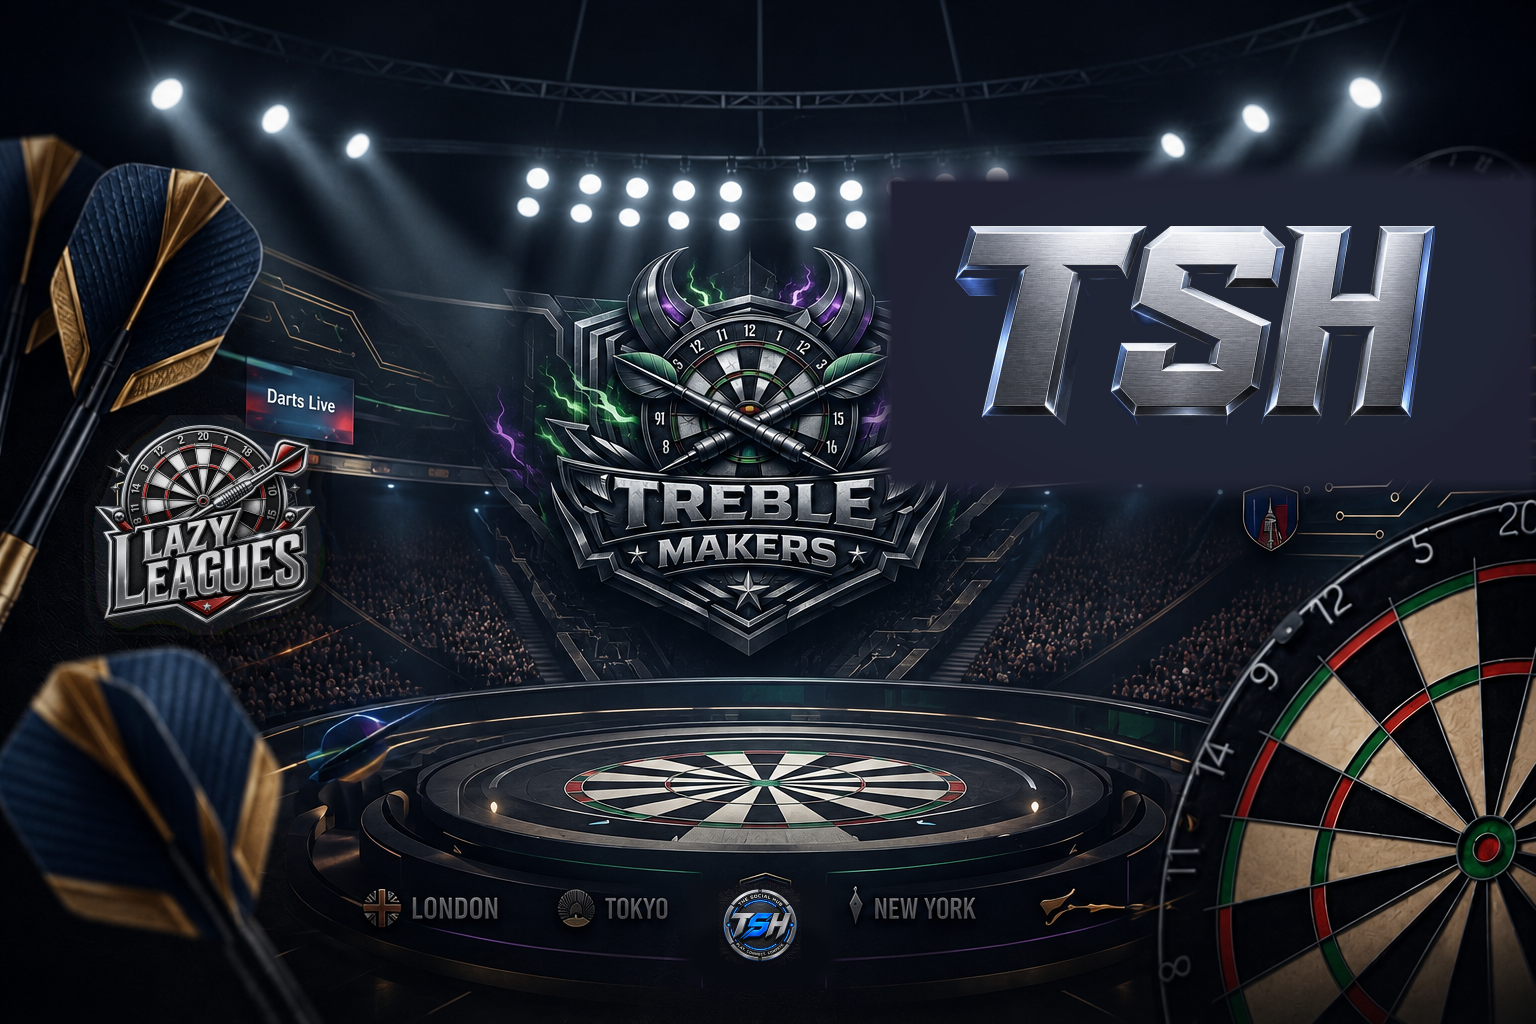
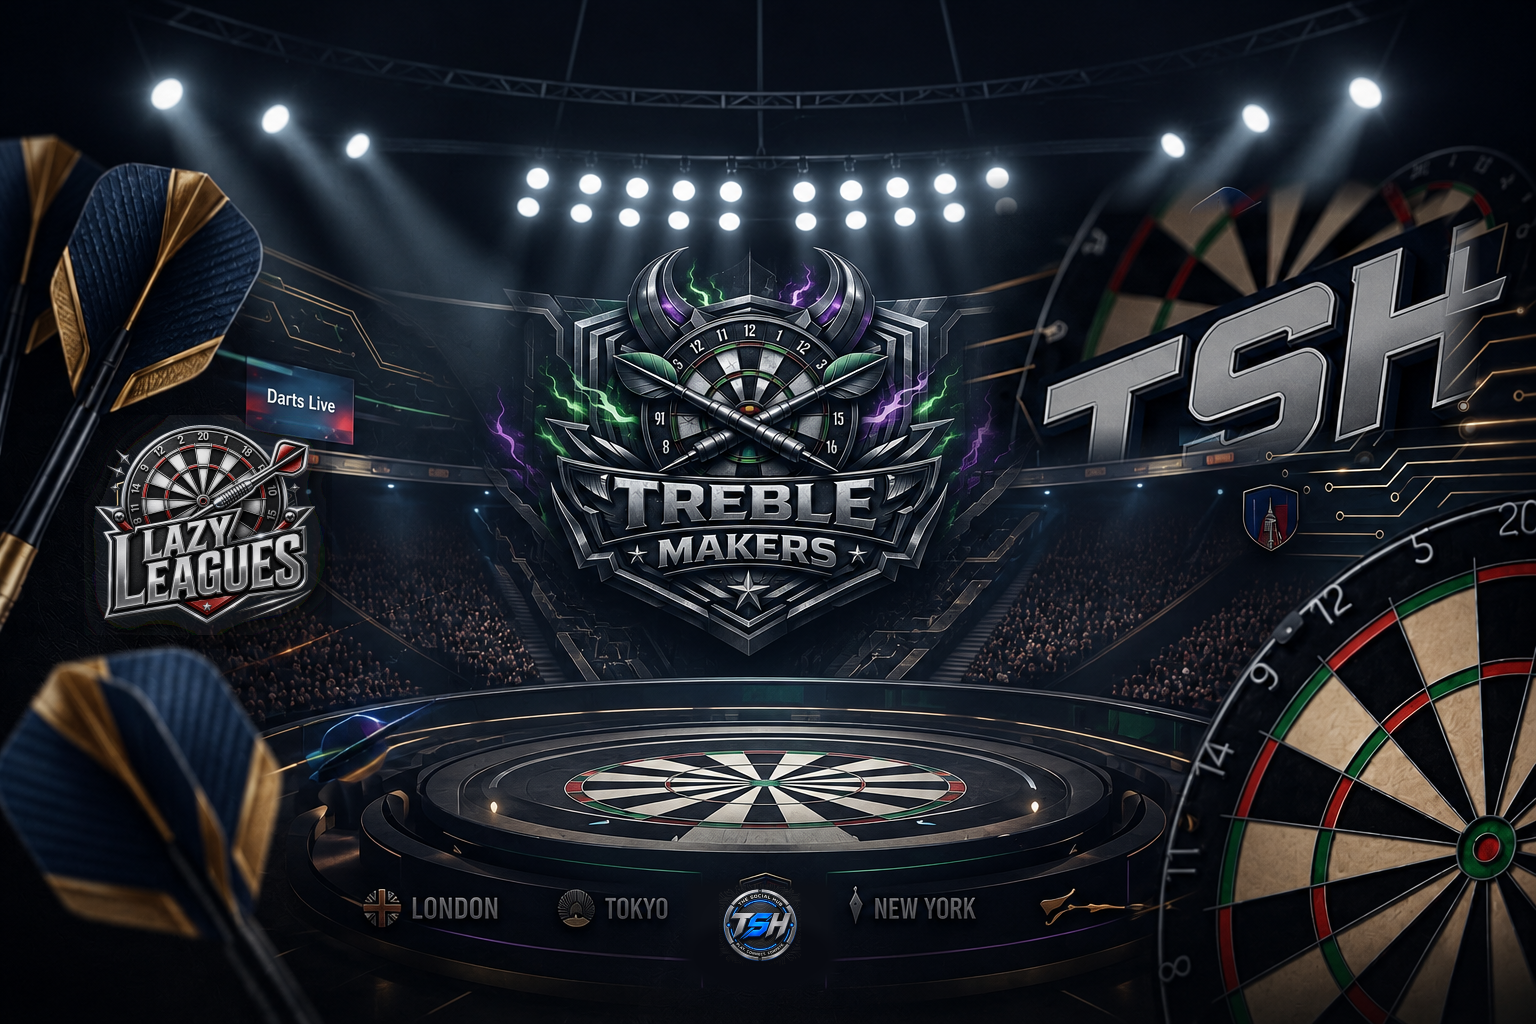
Integrate TSH wall letters into arena background like WDL (#54)
Replace the flat TSH letter overlay with a scene-matched slanted metallic
wall sign soft-blended into the original arena art so circuits, dartboard,
and lighting sit around the glyphs the way the old WDL lettering did.

Changed region(s): [[0.5625, 0.1562, 1.0, 0.5]]

diff --git a/scripts/patch-background-tsh.js b/scripts/patch-background-tsh.js
@@ -4,6 +4,10 @@
  * Replace the integrated WDL wall lettering and the small bottom-bar WDL crest
  * in treble_arena_background.png with TSH branding.
  *
+ * Prefers a scene-matched "integrated" TSH letter render (same slant, metal,
+ * circuit connections, dartboard behind) soft-blended into the original
+ * arena background so the letters feel mounted in the scene like WDL.
+ *
  * Usage:  node scripts/patch-background-tsh.js
  */
 const path = require('path');
@@ -13,14 +17,21 @@ const Jimp = require('jimp');
 const ROOT = path.resolve(__dirname, '..');
 const BG = path.join(ROOT, 'treble_arena_background.png');
 const BG_BACKUP = path.join(ROOT, 'treble_arena_background_wdl_backup.png');
-const LETTERS = path.join(ROOT, 'tsh-images/_originals/TSH_wall_letters.png');
+const LETTERS_INTEGRATED = path.join(ROOT, 'tsh-images/_originals/TSH_wall_letters_integrated.png');
+const LETTERS_FALLBACK = path.join(ROOT, 'tsh-images/_originals/TSH_wall_letters.png');
 const CREST = path.join(ROOT, 'tsh-images/_originals/TSH_Main_Crest.png');
+
+// Soft-blend window covering the old WDL wall-sign letters (full-image coords).
+// Kept taller on the letter faces, shorter into the circuit shelf so original
+// gold traces still appear to plug into the underside of the glyphs.
+const LETTER_BLEND = { x: 960, y: 175, w: 520, h: 290, feather: 42 };
+// Bottom-bar crest between TOKYO / NEW YORK.
+const BOTTOM_CREST = { cx: 760, cy: 925, size: 82 };
 
 function lum(r, g, b) {
   return 0.299 * r + 0.587 * g + 0.114 * b;
 }
 
-/** Soft circular alpha for a rectangular paste region. */
 function softCircleAlpha(dx, dy, rx, ry) {
   const nx = dx / rx;
   const ny = dy / ry;
@@ -30,7 +41,6 @@ function softCircleAlpha(dx, dy, rx, ry) {
   return 1 - (d - 0.72) / 0.28;
 }
 
-/** Soft-edged axis-aligned rectangle wipe (1 at centre, fades near edges). */
 function softRectAlpha(dx, dy, hw, hh, feather) {
   const ax = Math.abs(dx);
   const ay = Math.abs(dy);
@@ -77,7 +87,6 @@ async function cutBlackBg(srcAbs, tLow = 28) {
   for (let idx = 0; idx < n; idx++) {
     if (bg[idx]) data[idx * 4 + 3] = 0;
   }
-  // Trim to opaque bbox
   let minX = w, minY = h, maxX = -1, maxY = -1;
   for (let y = 0; y < h; y++) {
     for (let x = 0; x < w; x++) {
@@ -93,7 +102,6 @@ async function cutBlackBg(srcAbs, tLow = 28) {
   return img.crop(minX, minY, maxX - minX + 1, maxY - minY + 1);
 }
 
-/** Paint a dark elliptical patch (covers old WDL letters) using nearby dark samples. */
 function sampleFill(bg, cx, cy, rx) {
   const { width: w, height: h, data } = bg.bitmap;
   let rs = 0, gs = 0, bs = 0, cnt = 0;
@@ -120,7 +128,6 @@ function sampleFill(bg, cx, cy, rx) {
 function coverEllipse(bg, cx, cy, rx, ry) {
   const { width: w, height: h, data } = bg.bitmap;
   const fill = sampleFill(bg, cx, cy, rx);
-
   for (let y = Math.max(0, cy - ry); y < Math.min(h, cy + ry); y++) {
     for (let x = Math.max(0, cx - rx); x < Math.min(w, cx + rx); x++) {
       const a = softCircleAlpha(x - cx, y - cy, rx, ry);
@@ -136,7 +143,6 @@ function coverEllipse(bg, cx, cy, rx, ry) {
 function coverRect(bg, cx, cy, hw, hh, feather = 18) {
   const { width: w, height: h, data } = bg.bitmap;
   const fill = sampleFill(bg, cx, cy, hw);
-
   for (let y = Math.max(0, cy - hh); y < Math.min(h, cy + hh); y++) {
     for (let x = Math.max(0, cx - hw); x < Math.min(w, cx + hw); x++) {
       const a = softRectAlpha(x - cx, y - cy, hw, hh, feather);
@@ -173,41 +179,74 @@ function compositeCentered(bg, overlay, cx, cy, targetW, opacity = 1) {
   }
 }
 
-(async () => {
-  if (!fs.existsSync(LETTERS)) throw new Error('Missing ' + LETTERS);
-  if (!fs.existsSync(CREST)) throw new Error('Missing ' + CREST);
-
-  // Keep a one-time backup of the original WDL background if not already saved.
-  if (!fs.existsSync(BG_BACKUP)) {
-    fs.copyFileSync(BG, BG_BACKUP);
-    console.log('Backed up original background ->', path.relative(ROOT, BG_BACKUP));
+/**
+ * Soft-blend a same-sized scene render into bg over a feathered rectangle.
+ * Used so integrated TSH wall letters inherit the arena lighting / circuits.
+ */
+function softBlendRegion(bg, src, region) {
+  if (src.bitmap.width !== bg.bitmap.width || src.bitmap.height !== bg.bitmap.height) {
+    src = src.clone().resize(bg.bitmap.width, bg.bitmap.height);
   }
+  const { x, y, w, h, feather } = region;
+  const { width: bw, height: bh, data: bd } = bg.bitmap;
+  const sd = src.bitmap.data;
+  const cx = x + w / 2;
+  const cy = y + h / 2;
+  const hw = w / 2;
+  const hh = h / 2;
 
-  const bg = await Jimp.read(BG_BACKUP);
-  console.log('Loaded background', bg.bitmap.width, 'x', bg.bitmap.height);
+  for (let py = Math.max(0, y); py < Math.min(bh, y + h); py++) {
+    for (let px = Math.max(0, x); px < Math.min(bw, x + w); px++) {
+      const a = softRectAlpha(px - cx, py - cy, hw, hh, feather);
+      if (a <= 0.01) continue;
+      // Bias toward the source in the centre so WDL glyphs are fully replaced.
+      const mix = Math.min(1, a * 1.05);
+      const i = (py * bw + px) * 4;
+      bd[i] = Math.round(bd[i] * (1 - mix) + sd[i] * mix);
+      bd[i + 1] = Math.round(bd[i + 1] * (1 - mix) + sd[i + 1] * mix);
+      bd[i + 2] = Math.round(bd[i + 2] * (1 - mix) + sd[i + 2] * mix);
+    }
+  }
+}
 
-  // Cover the large 3D WDL wall letters (upper-right stadium wall).
-  // Hard rectangular wipe first so leftover "L"/bevels from "WDL" disappear.
+async function pasteFallbackLetters(bg) {
+  // Legacy path: wipe + flat letter overlay (used only if integrated render missing).
   coverRect(bg, 1210, 330, 340, 170, 22);
   coverEllipse(bg, 1205, 335, 310, 175);
   coverEllipse(bg, 1360, 300, 180, 155);
-  console.log('Covered WDL wall lettering region');
-
-  // Cover the small bottom-bar WDL crest (+ faint embossed watermark) between TOKYO / NEW YORK.
-  coverRect(bg, 760, 930, 78, 55, 12);
-  coverEllipse(bg, 760, 925, 70, 48);
-  coverEllipse(bg, 760, 955, 90, 40);
-  console.log('Covered bottom-bar WDL crest region');
-
-  const letters = await cutBlackBg(LETTERS, 30);
-  const crest = await cutBlackBg(CREST, 12);
-
-  // Place TSH wall letters over the covered WDL area.
+  const letters = await cutBlackBg(LETTERS_FALLBACK, 30);
   compositeCentered(bg, letters, 1195, 325, 480, 0.98);
-  console.log('Composited TSH wall letters');
+}
 
-  // Place a small TSH main crest on the bottom bar.
-  compositeCentered(bg, crest, 760, 925, 82, 1);
+(async () => {
+  if (!fs.existsSync(CREST)) throw new Error('Missing ' + CREST);
+  if (!fs.existsSync(BG_BACKUP)) {
+    throw new Error(
+      'Missing WDL background backup at ' + path.relative(ROOT, BG_BACKUP) +
+      '. Restore with: git show main:treble_arena_background.png > treble_arena_background_wdl_backup.png'
+    );
+  }
+
+  const bg = await Jimp.read(BG_BACKUP);
+  console.log('Loaded WDL backup background', bg.bitmap.width, 'x', bg.bitmap.height);
+
+  if (fs.existsSync(LETTERS_INTEGRATED)) {
+    const integrated = await Jimp.read(LETTERS_INTEGRATED);
+    softBlendRegion(bg, integrated, LETTER_BLEND);
+    console.log('Soft-blended integrated TSH wall letters from', path.relative(ROOT, LETTERS_INTEGRATED));
+  } else if (fs.existsSync(LETTERS_FALLBACK)) {
+    console.warn('Integrated letter render missing — using flat fallback letters');
+    await pasteFallbackLetters(bg);
+  } else {
+    throw new Error('No TSH wall letter source found');
+  }
+
+  // Cover + replace the small bottom-bar WDL crest between TOKYO / NEW YORK.
+  coverRect(bg, BOTTOM_CREST.cx, BOTTOM_CREST.cy + 5, 78, 55, 12);
+  coverEllipse(bg, BOTTOM_CREST.cx, BOTTOM_CREST.cy, 70, 48);
+  coverEllipse(bg, BOTTOM_CREST.cx, BOTTOM_CREST.cy + 30, 90, 40);
+  const crest = await cutBlackBg(CREST, 12);
+  compositeCentered(bg, crest, BOTTOM_CREST.cx, BOTTOM_CREST.cy, BOTTOM_CREST.size, 1);
   console.log('Composited TSH bottom crest');
 
   await bg.writeAsync(BG);
